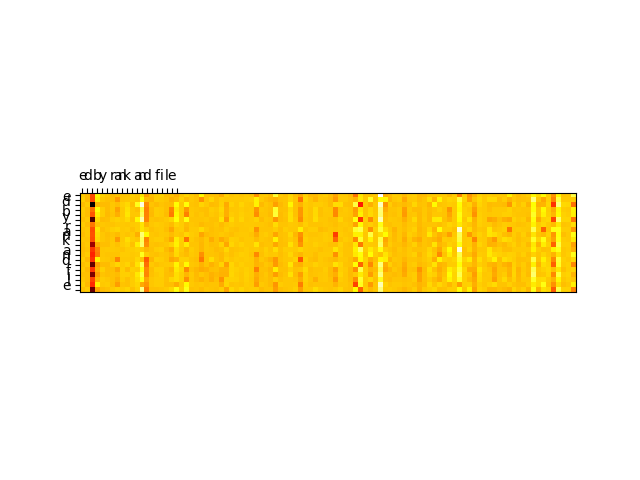
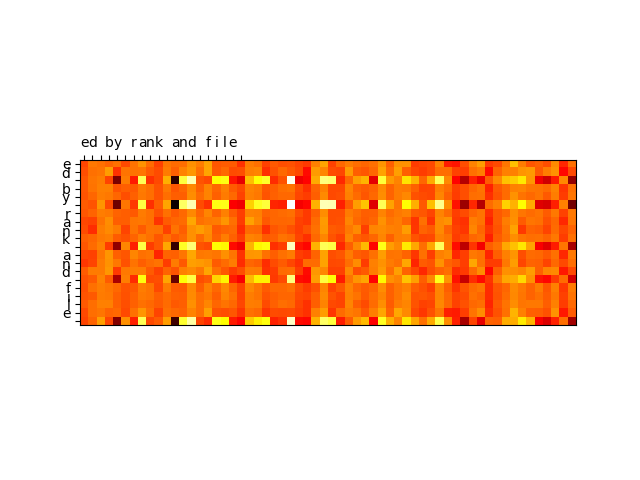
Passes Part 1 100 percent

Changed region(s): [[0.0938, 0.2812, 0.9062, 0.6875]]

diff --git a/a5/a5-distrib/transformer.py b/a5/a5-distrib/transformer.py
@@ -166,10 +166,10 @@ def train_classifier(args, train, dev):
     model = Transformer(vocab_size=27,num_positions=20,d_model = 50,d_internal = 100,num_classes = 3,num_layers = 2)
     model.zero_grad()
     model.train()
-    optimizer = optim.Adam(model.parameters(), lr=1e-3)
+    optimizer = optim.Adam(model.parameters(), lr=2.5e-4)
     softmax = nn.LogSoftmax(dim=1)
     start_time = time.time()
-    num_epochs = 15
+    num_epochs = 10
     for t in range(0, num_epochs):
         loss_this_epoch = 0.0
         random.seed(t)
